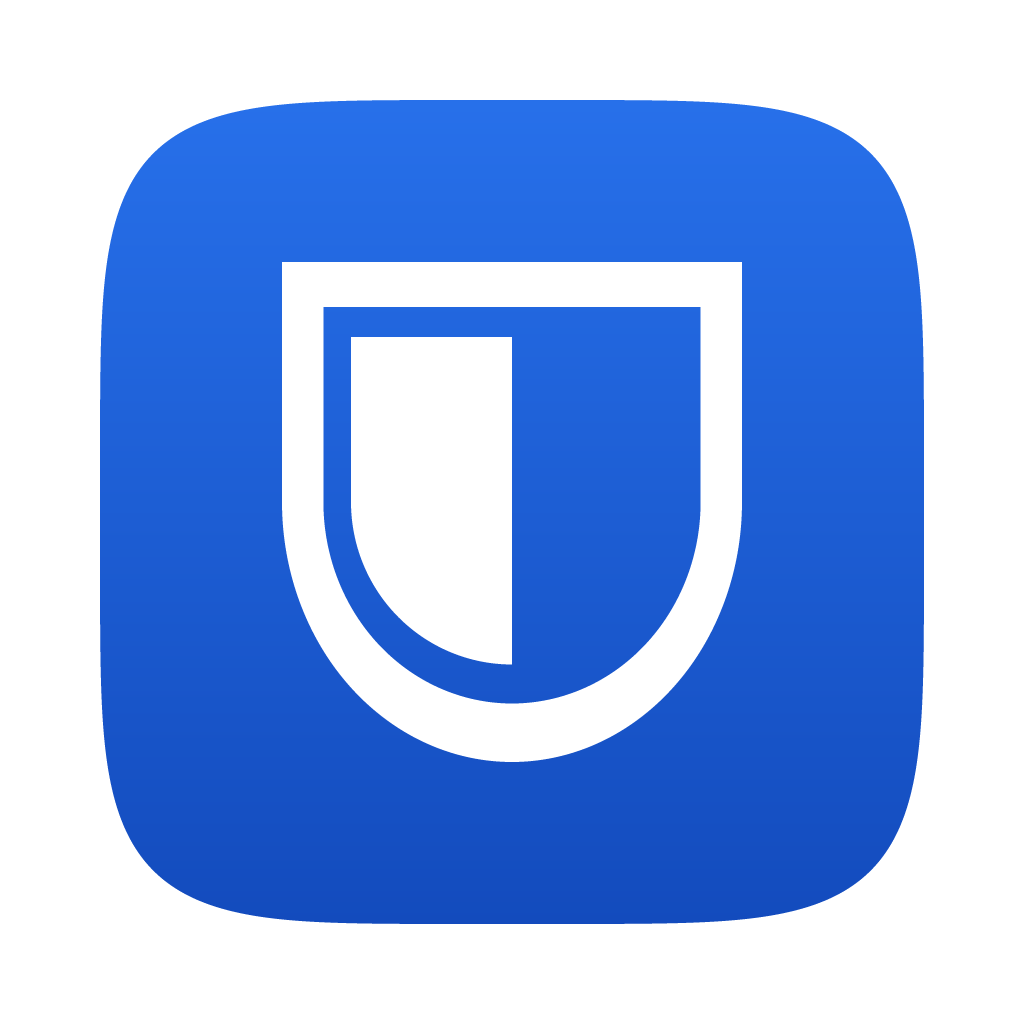
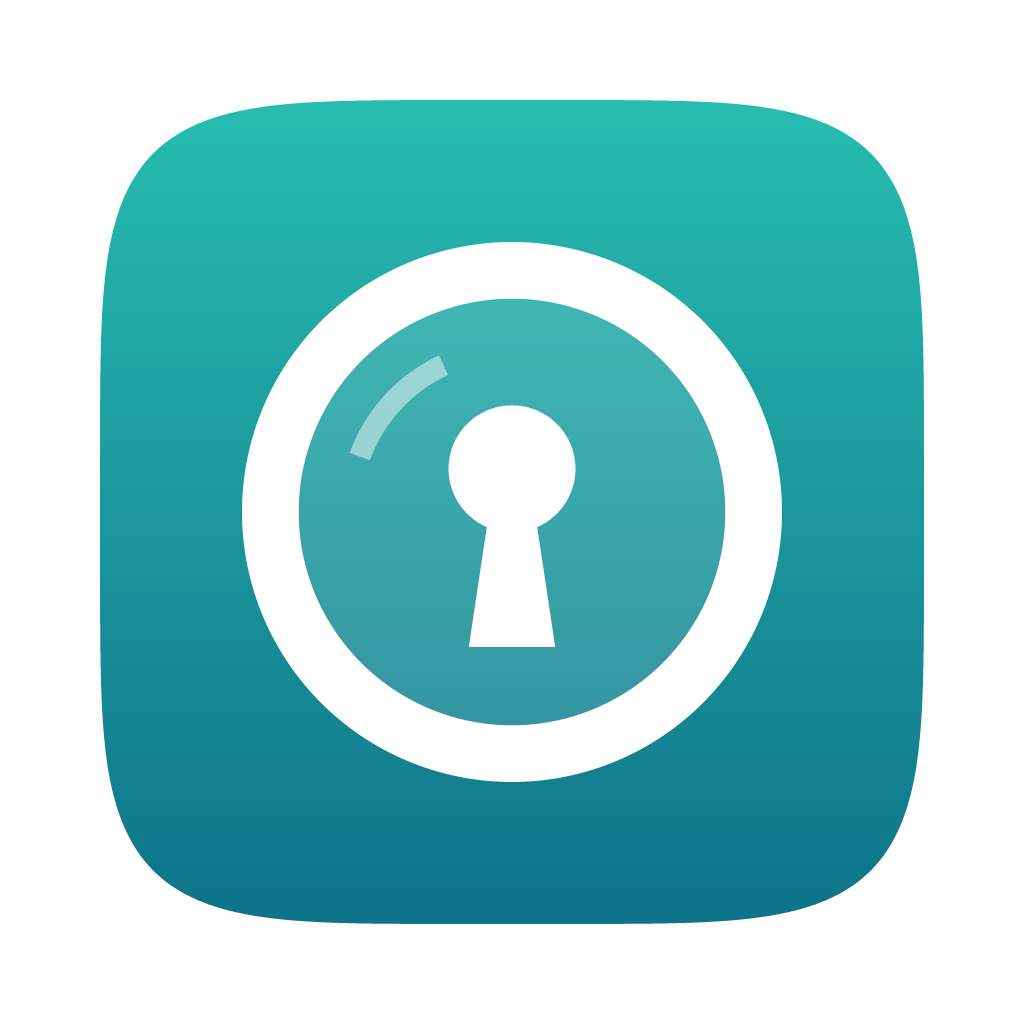
feat: Lense's mark, a lens with a keyhole, for a shield like Bitwarden's
The app icon, the menu bar's and the lock screen's show a lens on teal:
its rim, a glint on its glass, and a keyhole in its middle. Bitwarden's
trademark guidelines keep its logo, the shield, to its own products.

diff --git a/icons.go b/icons.go
@@ -41,7 +41,11 @@ var (
 	iconCheck     = icon(`<path d="M20 6 9 17l-5-5"/>`)
 	iconClose     = icon(`<path d="M18 6 6 18"/><path d="m6 6 12 12"/>`)
 	iconBack      = icon(`<path d="m15 18-6-6 6-6"/>`)
-	iconShield    = ui.MustParseSVG([]byte(`<svg xmlns="http://www.w3.org/2000/svg" width="24" height="24" viewBox="0 0 24 24"><path fill="currentColor" fill-rule="evenodd" d="M5 2.5h14a1 1 0 0 1 1 1V12c0 4.6-4.3 7.8-8 9.6-3.7-1.8-8-5-8-9.6V3.5a1 1 0 0 1 1-1Zm7 2.3v14.4c3-1.6 5.8-3.9 5.8-7.2V4.8Z"/></svg>`))
+	// Lense's mark, as its icon draws it: a lens, its rim around the glass
+	// and a keyhole in its middle, and the glint on the glass, apart, to
+	// show fainter.
+	iconLens  = ui.MustParseSVG([]byte(`<svg xmlns="http://www.w3.org/2000/svg" width="24" height="24" viewBox="0 0 24 24"><path fill="currentColor" fill-rule="evenodd" d="M2.4 12a9.6 9.6 0 1 0 19.2 0a9.6 9.6 0 1 0-19.2 0ZM4.416 12a7.584 7.584 0 1 0 15.168 0a7.584 7.584 0 1 0-15.168 0ZM10.46 16.8 11.1 12.53A2.26 2.26 0 1 1 12.9 12.53L13.54 16.8Z"/></svg>`))
+	iconGlint = ui.MustParseSVG([]byte(`<svg xmlns="http://www.w3.org/2000/svg" width="24" height="24" viewBox="0 0 24 24"><path fill="currentColor" d="M9.4 6.43A6.14 6.14 0 0 0 6.23 9.9L6.95 10.16A5.38 5.38 0 0 1 9.73 7.13Z"/></svg>`))
 )
 
 // itemIcon is the icon of an item of a kind.
@@ -59,38 +63,24 @@ func itemIcon(kind int) *ui.SVG {
 	return iconLogin
 }
 
-// shield reports how much of the pixel at (px, py) Bitwarden's shield
-// covers, in a box of size s: the outline, and the left half within.
-func shield(px, py, s float64, outline bool) bool {
-	x, y := px/s, py/s // 0..1
-	const top, mid, bottom = 0.08, 0.52, 0.95
-	const left, right = 0.14, 0.86
-	inside := func(x, y, inset float64) bool {
-		l, r := left+inset, right-inset
-		t, m, b := top+inset, mid, bottom-inset*1.4
-		switch {
-		case y < t || y > b:
-			return false
-		case y <= m:
-			return x >= l && x <= r
-		}
-		// The bottom curves in to a point, as an ellipse's quarter.
-		f := (y - m) / (b - m)
-		hw := (r - l) / 2 * math.Sqrt(math.Max(0, 1-f*f))
-		cx := (l + r) / 2
-		return x >= cx-hw && x <= cx+hw
-	}
-	if !outline {
-		return inside(x, y, 0)
-	}
-	if !inside(x, y, 0) {
-		return false
-	}
-	// A ring, and the left half of what it holds.
-	if !inside(x, y, 0.1) {
+// lens reports whether Lense's mark covers the point (u, v), in units of
+// the lens's radius about its middle: the rim around the glass, and the
+// keyhole in its middle.
+func lens(u, v float64) bool {
+	const glass = 0.79 // the glass's radius, inside the rim
+	if r := math.Hypot(u, v); r <= 1 && r > glass {
 		return true
 	}
-	return x < 0.5 && inside(x, y, 0.16)
+	// The keyhole: a bow, and a blade that widens down from it.
+	const bow, bowR = -0.16, 0.235
+	if math.Hypot(u, v-bow) <= bowR {
+		return true
+	}
+	const bottom = 0.5
+	if v < 0 || v > bottom {
+		return false
+	}
+	return math.Abs(u) <= 0.085+v/bottom*(0.16-0.085)
 }
 
 // render draws a mark into a size×size image at 4×4 samples per pixel,
@@ -117,12 +107,13 @@ func render(size int, c color.NRGBA, hit func(px, py float64) bool) *image.NRGBA
 	return img
 }
 
-// trayIcon is the shield, 18 points high at twice the scale, black on
+// trayIcon is the lens, 18 points high at twice the scale, black on
 // transparent for macOS to tint.
 func trayIcon(locked bool) []byte {
 	const size = 36
+	const r = 0.46 * size // the lens's radius
 	img := render(size, color.NRGBA{A: 255}, func(px, py float64) bool {
-		return shield(px, py, size, true)
+		return lens((px-size/2)/r, (py-size/2)/r)
 	})
 	if locked {
 		// A dot at the bottom right says the vault is locked.

diff --git a/view.go b/view.go
@@ -335,13 +335,23 @@ func keycap(c *ui.Context, k ink, keys, label string) {
 	})
 }
 
-// shieldTile is the app's mark.
-func shieldTile(c *ui.Context, k ink, size float32) ui.Element {
+// Lense's teal, from the top of its icon to the bottom.
+var (
+	lenseTop    = ui.RGB(0x2b, 0xc6, 0xb4)
+	lenseBottom = ui.RGB(0x0c, 0x6a, 0x86)
+)
+
+// markTile is the app's mark, as its icon draws it: the lens as wide of
+// the tile as of the icon's squircle.
+func markTile(c *ui.Context, size float32) ui.Element {
 	tile := ui.Row(c).Size(size, size).Radius(size*0.26).Center().
-		Gradient(k.accent.Mix(ui.RGB(255, 255, 255), 0.12), k.accent.Mix(ui.RGB(0, 0, 0), 0.12), 180).
-		Shadow(0, 3, 10, 0, k.accent.Alpha(0.3))
+		Gradient(lenseTop, lenseBottom, 180).
+		Shadow(0, 3, 10, 0, lenseBottom.Alpha(0.3))
+	mark, inset := size*0.82, size*0.09
 	tile.Children(func() {
-		ui.Icon(c, iconShield).FontSize(size * 0.6).TextColor(ui.RGB(255, 255, 255))
+		ui.Icon(c, iconLens).FontSize(mark).TextColor(ui.RGB(255, 255, 255))
+		ui.Icon(c, iconGlint).FontSize(mark).TextColor(ui.RGBA(255, 255, 255, 0.55)).
+			Absolute().Top(inset).Left(inset)
 	})
 	return tile
 }

diff --git a/view_lock.go b/view_lock.go
@@ -17,7 +17,7 @@ func (a *app) lockedView(c *ui.Context, k ink) {
 	})
 	ui.Column(c).Grow(1).Center().Padding(0, 0, 44, 0).Children(func() {
 		ui.Column(c).Width(340).Gap(14).AlignItems(ui.Center).Children(func() {
-			shieldTile(c, k, 56)
+			markTile(c, 56)
 			ui.Column(c).Gap(3).AlignItems(ui.Center).Children(func() {
 				ui.Text(c, "Lense is locked").FontSize(17).FontWeight(650)
 				ui.Text(c, a.cfg.Email+" · "+a.cfg.Server.Host()).FontSize(12).TextColor(k.muted).SingleLine()
@@ -75,7 +75,7 @@ func (a *app) setupView(c *ui.Context, k ink) {
 	})
 	ui.Row(c).Grow(1).Padding(0, 48, 28, 48).Gap(40).AlignItems(ui.Center).Children(func() {
 		ui.Column(c).Width(250).Gap(12).Children(func() {
-			shieldTile(c, k, 52)
+			markTile(c, 52)
 			ui.Text(c, "Connect to Bitwarden").FontSize(20).FontWeight(650)
 			ui.Text(c, "Lense searches the vault the Bitwarden app keeps on this Mac, and asks the app to unlock it with Touch ID. It never connects to Bitwarden's servers itself.").
 				FontSize(12.5).TextColor(k.muted).LineHeight(1.45)

diff --git a/view_items.go b/view_items.go
@@ -366,7 +366,7 @@ func subtitle(it *bw.Item) string {
 
 func (a *app) noItem(c *ui.Context, k ink) {
 	ui.Column(c).Fill().Center().Gap(6).Padding(24).Children(func() {
-		ui.Icon(c, iconShield).FontSize(36).TextColor(k.text.Alpha(0.12))
+		ui.Icon(c, iconLens).FontSize(36).TextColor(k.text.Alpha(0.12))
 		ui.Text(c, "Type to search your vault").TextColor(k.muted)
 		ui.Text(c, "Filters: =favorite =tag: =category: =vault: =passkey =location: =untagged").
 			FontSize(11.5).TextColor(k.faint).TextAlign(ui.Center).LineHeight(1.4).MaxWidth(320)
